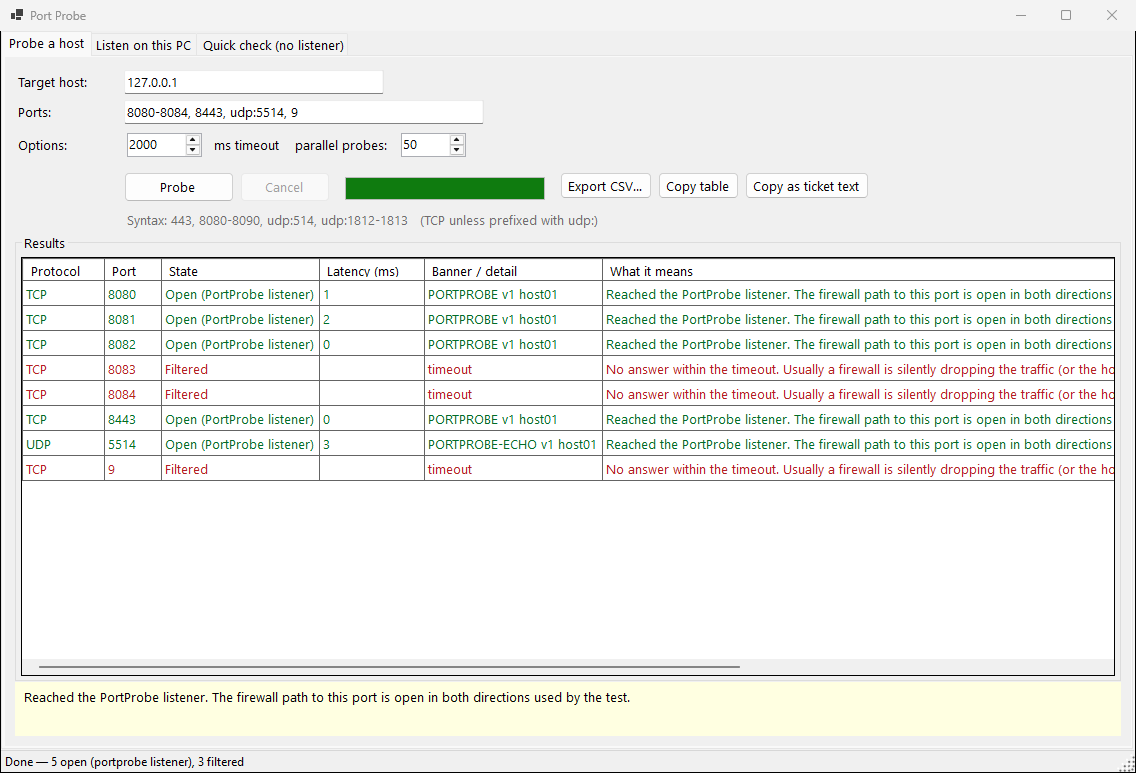
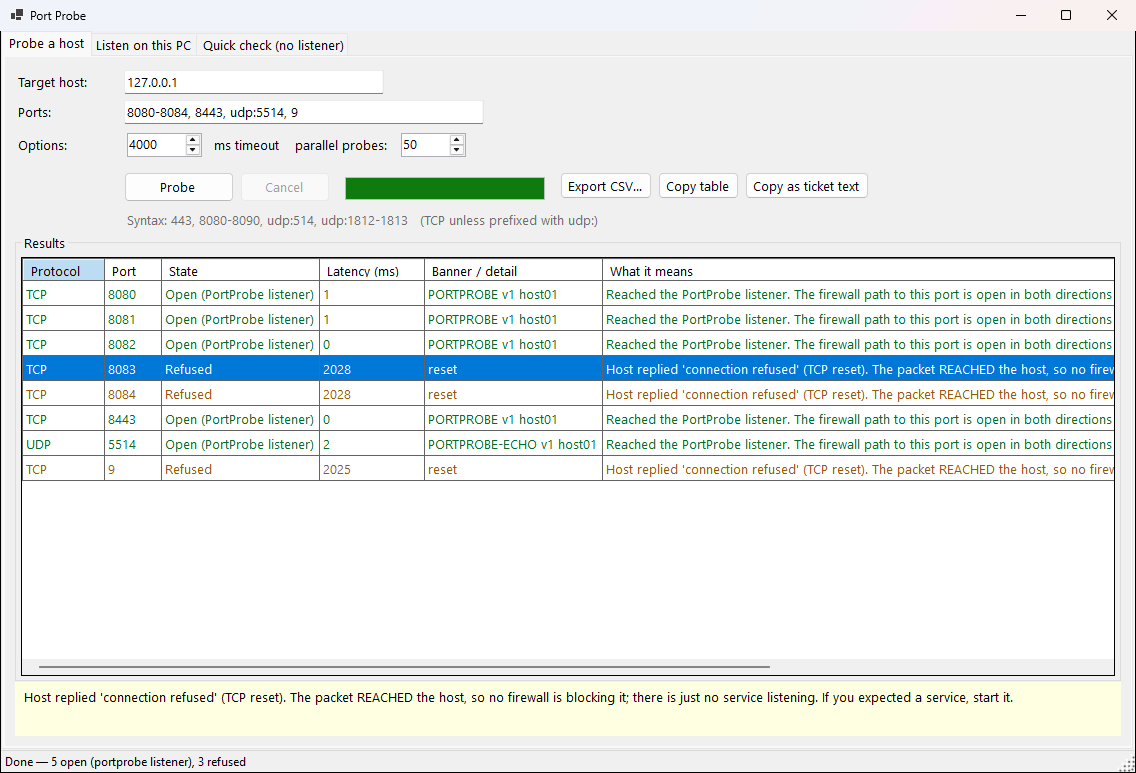
port-probe: retake results screenshot with 4000 ms timeout so closed ports show Refused

diff --git a/port-probe/README.md b/port-probe/README.md
@@ -8,7 +8,7 @@ Prove whether firewall rules work **end to end**: run a listener on one machine 
 *Probe a host: enter a target and port list (TCP, or `udp:` prefixed).*
 
 ![port-probe screenshot 2](docs/screenshot-2.png)
-*Probing 127.0.0.1 against a real local listener: each port is classified and explained.*
+*Probing 127.0.0.1 against a real local listener: ports with a listener show Open, closed ports show Refused, and each result is explained below the table.*
 
 ## Tabs
 
